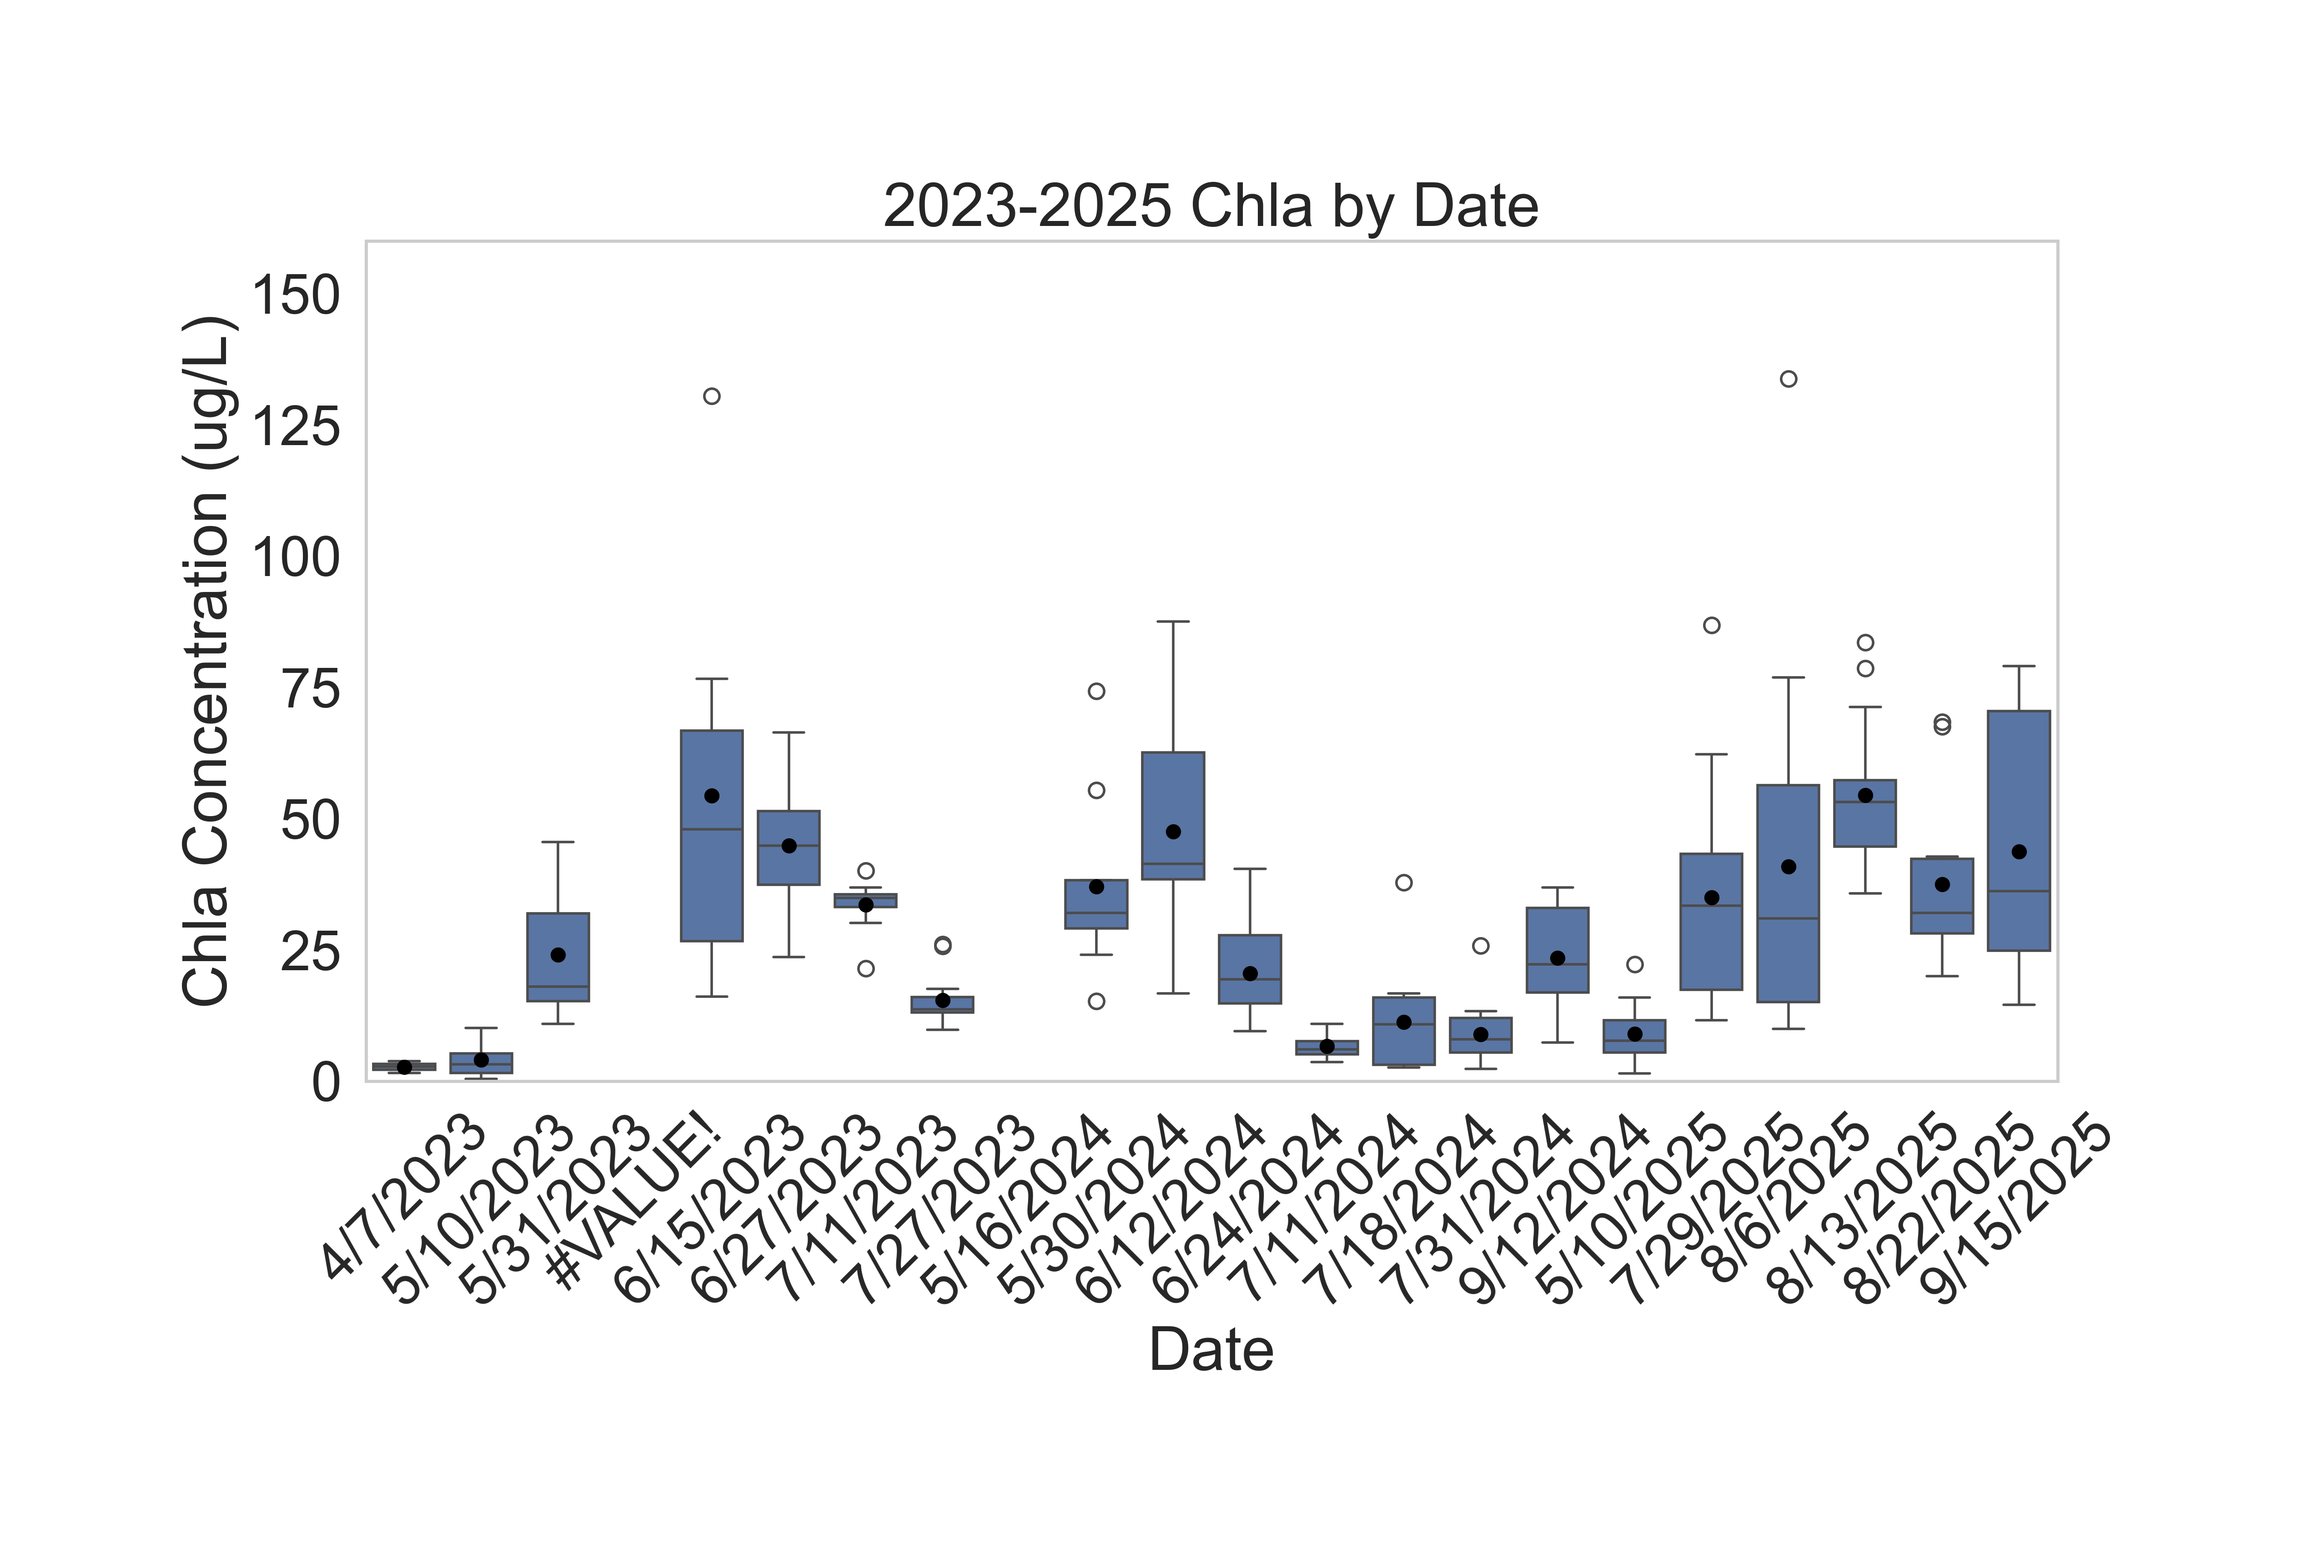
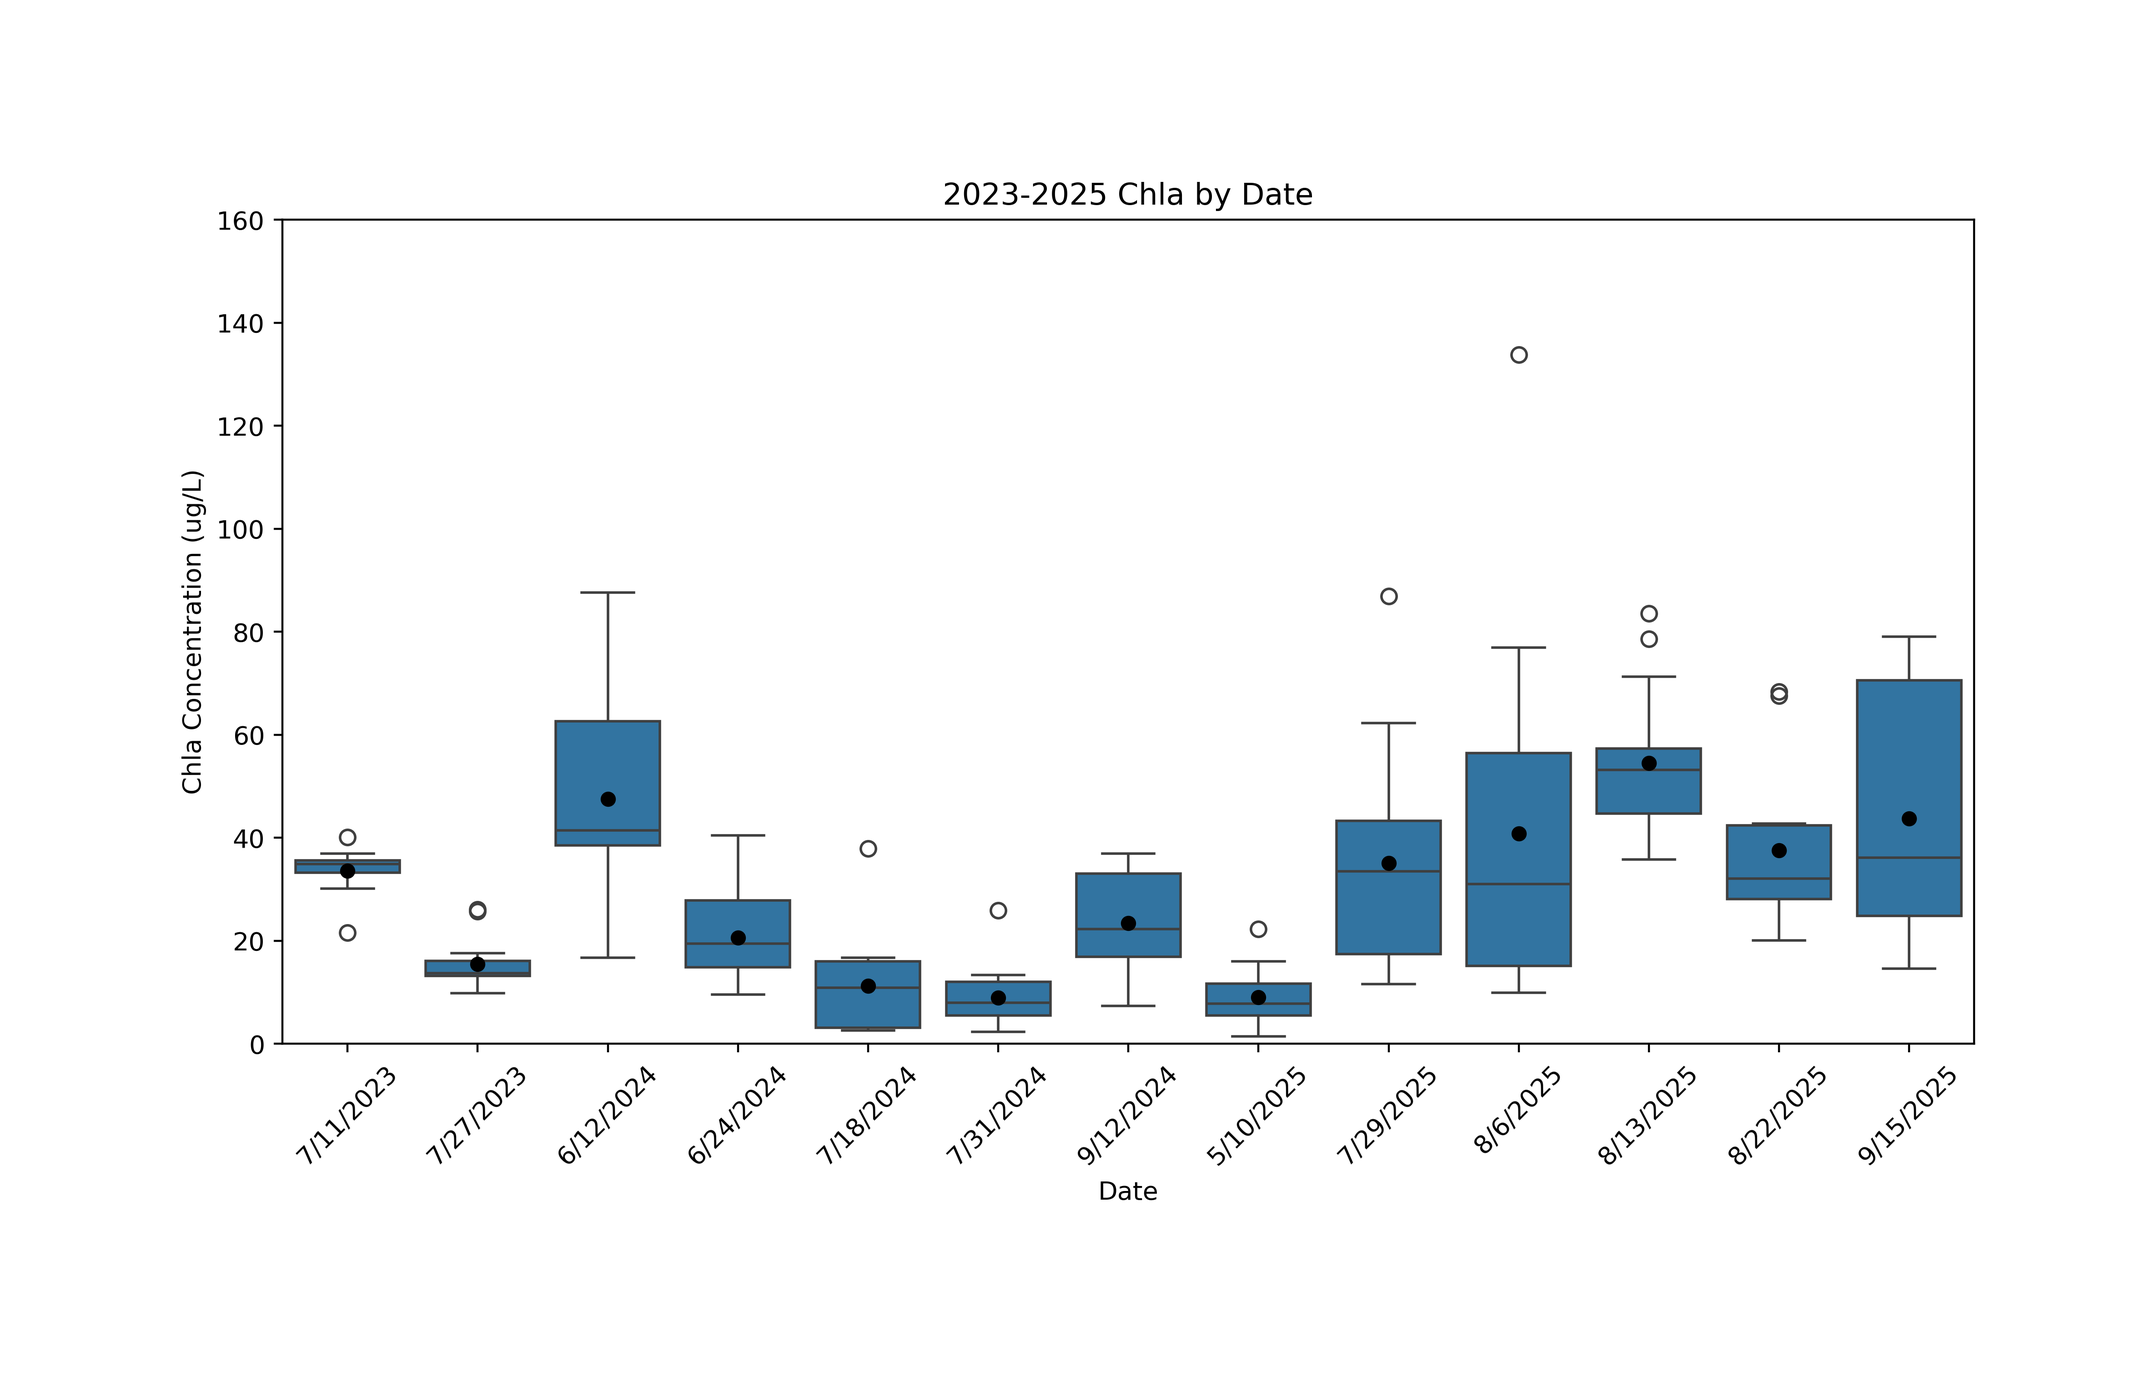
Fixed Value in soirting

diff --git a/Graphic_Creation.py b/Graphic_Creation.py
@@ -33,12 +33,16 @@ import scipy as sp
 
 print('HAHAHA NEW ONE')
 
-df = pd.read_csv('2023_2025_YSI_Included.csv') #open a csv within GH folder for data process.
+df_original = pd.read_csv('2023_2025_YSI_Included.csv') #open a csv within GH folder for data process.
+df = df_original[df_original['Sampling Type (B/S)'] == 'Boat'] #boat only
 df = df.replace('NaN', np.nan) #from DK replaces NaN with numpy NaN
 df['Chla (Avg 24 and on)'] = df['Chla (Avg 24 and on)'].astype(np.float64) #sets type to float from DK
 print (df.info())
 
 df_M = df[df['Lake ID (4 dig.)'] == 'MISS']
+df_M_mc = df_M.dropna(subset='Microcystin BDL') # making sure there iosn't any empty mc data included
+df_M_ch = df_M.dropna(subset='Chla (Avg 24 and on)') # same but for chla
+
 #print(df)
 #https://www.geeksforgeeks.org/pandas/ways-to-filter-pandas-dataframe-by-column-values/
 #filter data frames
@@ -53,7 +57,7 @@ df_23_M = df_23[df_23['Lake ID (4 dig.)'] == 'MISS']
 #print(df_24_M)
 
 c_23 = df_23_M.dropna(subset='Chla (Avg 24 and on)')
-Mc_23 = df_23_M.dropna(subset='Microcystin Concentration')
+Mc_23 = df_23_M.dropna(subset='Microcystin BDL')
 
 #2025 = 108 rows of data
 df_25 = df[df['Year']>2024]
@@ -62,8 +66,8 @@ df_25_M = df_25[df_25['Lake ID (4 dig.)'] == 'MISS']
 #print(df_25_M)
 
 c_25 = df_25_M.dropna(subset='Chla (Avg 24 and on)')
-Mc_25 = df_25_M.dropna(subset='Microcystin Concentration')
-
+Mc_25 = df_25_M.dropna(subset='Microcystin BDL')
+                
 #2024 - 288 rows of data
 df_24 = df[df['Year']==2024]
 #print(df_24)
@@ -71,7 +75,7 @@ df_24_M = df_24[df_24['Lake ID (4 dig.)'] == 'MISS']
 #print(df_24_M)
 
 c_24 = df_24_M.dropna(subset='Chla (Avg 24 and on)')
-Mc_24 = df_24_M.dropna(subset='Microcystin Concentration')
+Mc_24 = df_24_M.dropna(subset='Microcystin BDL')
 
 
 """Graphics"""
@@ -79,18 +83,18 @@ Mc_24 = df_24_M.dropna(subset='Microcystin Concentration')
 # 2025 Additional
 
 plt.figure(figsize=(12,6)) #space out recording
-adgb = sns.boxplot(x='Date', y='Microcystin Concentration', data=df_M, showmeans=True, meanprops={'marker':'o','markerfacecolor':'black', 'markeredgecolor':'black', 'markersize':'5'}) 
+adgb = sns.boxplot(x='Date', y='Microcystin BDL', data=df_M_mc, showmeans=True, meanprops={'marker':'o','markerfacecolor':'black', 'markeredgecolor':'black', 'markersize':'5'}) 
 #https://www.geeksforgeeks.org/python/how-to-set-x-axis-values-in-matplotlib-in-python/
 plt.xticks(x='Date', rotation=45)
 adgb.set_xlabel('Date')
 adgb.set_ylabel('Microcystin Concentration (ug/L)')
 adgb.set_title("2023-2025 Microcystin by Date")
-adgb.set_ylim(0, 50)
+adgb.set_ylim(0, 85)
 plt.savefig('BoxMcM23-25.png', bbox_inches = 'tight', pad_inches=1,  dpi = 400)
 plt.show()
 
 plt.figure(figsize=(12,6)) #space out recording
-adgb = sns.boxplot(x='Date', y='Chla (Avg 24 and on)', data=df_M, showmeans=True, meanprops={'marker':'o','markerfacecolor':'black', 'markeredgecolor':'black', 'markersize':'5'}) 
+adgb = sns.boxplot(x='Date', y='Chla (Avg 24 and on)', data=df_M_ch, showmeans=True, meanprops={'marker':'o','markerfacecolor':'black', 'markeredgecolor':'black', 'markersize':'5'}) 
 #https://www.geeksforgeeks.org/python/how-to-set-x-axis-values-in-matplotlib-in-python/
 plt.xticks(x='Date', rotation=45)
 adgb.set_xlabel('Date')
@@ -136,7 +140,7 @@ plt.savefig('BoxChlaMISS25.png', bbox_inches = 'tight', pad_inches=1,  dpi = 400
 plt.show()
 
 plt.figure(figsize=(12,6)) #space out recording
-adgb = sns.boxplot(x='Distance From Dam', y='Microcystin Concentration', data=Mc_25, showmeans=True, meanprops={'marker':'o','markerfacecolor':'black', 'markeredgecolor':'black', 'markersize':'5'}) 
+adgb = sns.boxplot(x='Distance From Dam', y='Microcystin BDL', data=Mc_25, showmeans=True, meanprops={'marker':'o','markerfacecolor':'black', 'markeredgecolor':'black', 'markersize':'5'}) 
 #https://www.geeksforgeeks.org/python/how-to-set-x-axis-values-in-matplotlib-in-python/
 plt.xticks(x='Distance from Dam', rotation=45)
 adgb.set_xlabel('Distance from Dam (m)')
@@ -183,7 +187,7 @@ plt.savefig('BoxChlaMISS24.png', bbox_inches = 'tight', pad_inches=1,  dpi = 400
 plt.show()
 
 plt.figure(figsize=(12,6)) #space out recording
-adgb = sns.boxplot(x='Distance From Dam', y='Microcystin Concentration', data=Mc_24, showmeans=True, meanprops={'marker':'o','markerfacecolor':'black', 'markeredgecolor':'black', 'markersize':'5'}) 
+adgb = sns.boxplot(x='Distance From Dam', y='Microcystin BDL', data=Mc_24, showmeans=True, meanprops={'marker':'o','markerfacecolor':'black', 'markeredgecolor':'black', 'markersize':'5'}) 
 #https://www.geeksforgeeks.org/python/how-to-set-x-axis-values-in-matplotlib-in-python/
 plt.xticks(x='Distance from Dam', rotation=45)
 adgb.set_xlabel('Distance from Dam (m)')
@@ -194,7 +198,7 @@ plt.savefig('BoxMcMISS24.png', bbox_inches = 'tight', pad_inches=1,  dpi = 400)
 plt.show()
 
 plt.figure(figsize=(12,6)) #space out recording
-adgb = sns.boxplot(x='Distance From Dam', y='Microcystin Concentration', data=Mc_24, showmeans=True, meanprops={'marker':'o','markerfacecolor':'black', 'markeredgecolor':'black', 'markersize':'5'}) 
+adgb = sns.boxplot(x='Distance From Dam', y='Microcystin BDL', data=Mc_24, showmeans=True, meanprops={'marker':'o','markerfacecolor':'black', 'markeredgecolor':'black', 'markersize':'5'}) 
 #https://www.geeksforgeeks.org/python/how-to-set-x-axis-values-in-matplotlib-in-python/
 plt.xticks(x='Distance from Dam', rotation=45)
 adgb.set_xlabel('Distance from Dam (m)')
@@ -244,7 +248,7 @@ plt.savefig('BoxChlaMISS23.png', bbox_inches = 'tight', pad_inches=1,  dpi = 400
 plt.show()
 
 plt.figure(figsize=(12,6)) #space out recording
-adgb = sns.boxplot(x='Distance From Dam', y='Microcystin Concentration', data=Mc_23, showmeans=True, meanprops={'marker':'o','markerfacecolor':'black', 'markeredgecolor':'black', 'markersize':'5'}) 
+adgb = sns.boxplot(x='Distance From Dam', y='Microcystin BDL', data=Mc_23, showmeans=True, meanprops={'marker':'o','markerfacecolor':'black', 'markeredgecolor':'black', 'markersize':'5'}) 
 #https://www.geeksforgeeks.org/python/how-to-set-x-axis-values-in-matplotlib-in-python/
 plt.xticks(x='Distance from Dam', rotation=45)
 adgb.set_xlabel('Distance from Dam (m)')
@@ -255,7 +259,7 @@ plt.savefig('BoxMcMISS23.png', bbox_inches = 'tight', pad_inches=1,  dpi = 400)
 plt.show()
 
 plt.figure(figsize=(12,6)) #space out recording
-adgb = sns.boxplot(x='Distance From Dam', y='Microcystin Concentration', data=Mc_23, showmeans=True, meanprops={'marker':'o','markerfacecolor':'black', 'markeredgecolor':'black', 'markersize':'5'}) 
+adgb = sns.boxplot(x='Distance From Dam', y='Microcystin BDL', data=Mc_23, showmeans=True, meanprops={'marker':'o','markerfacecolor':'black', 'markeredgecolor':'black', 'markersize':'5'}) 
 #https://www.geeksforgeeks.org/python/how-to-set-x-axis-values-in-matplotlib-in-python/
 plt.xticks(x='Distance from Dam', rotation=45)
 adgb.set_xlabel('Distance from Dam (m)')
